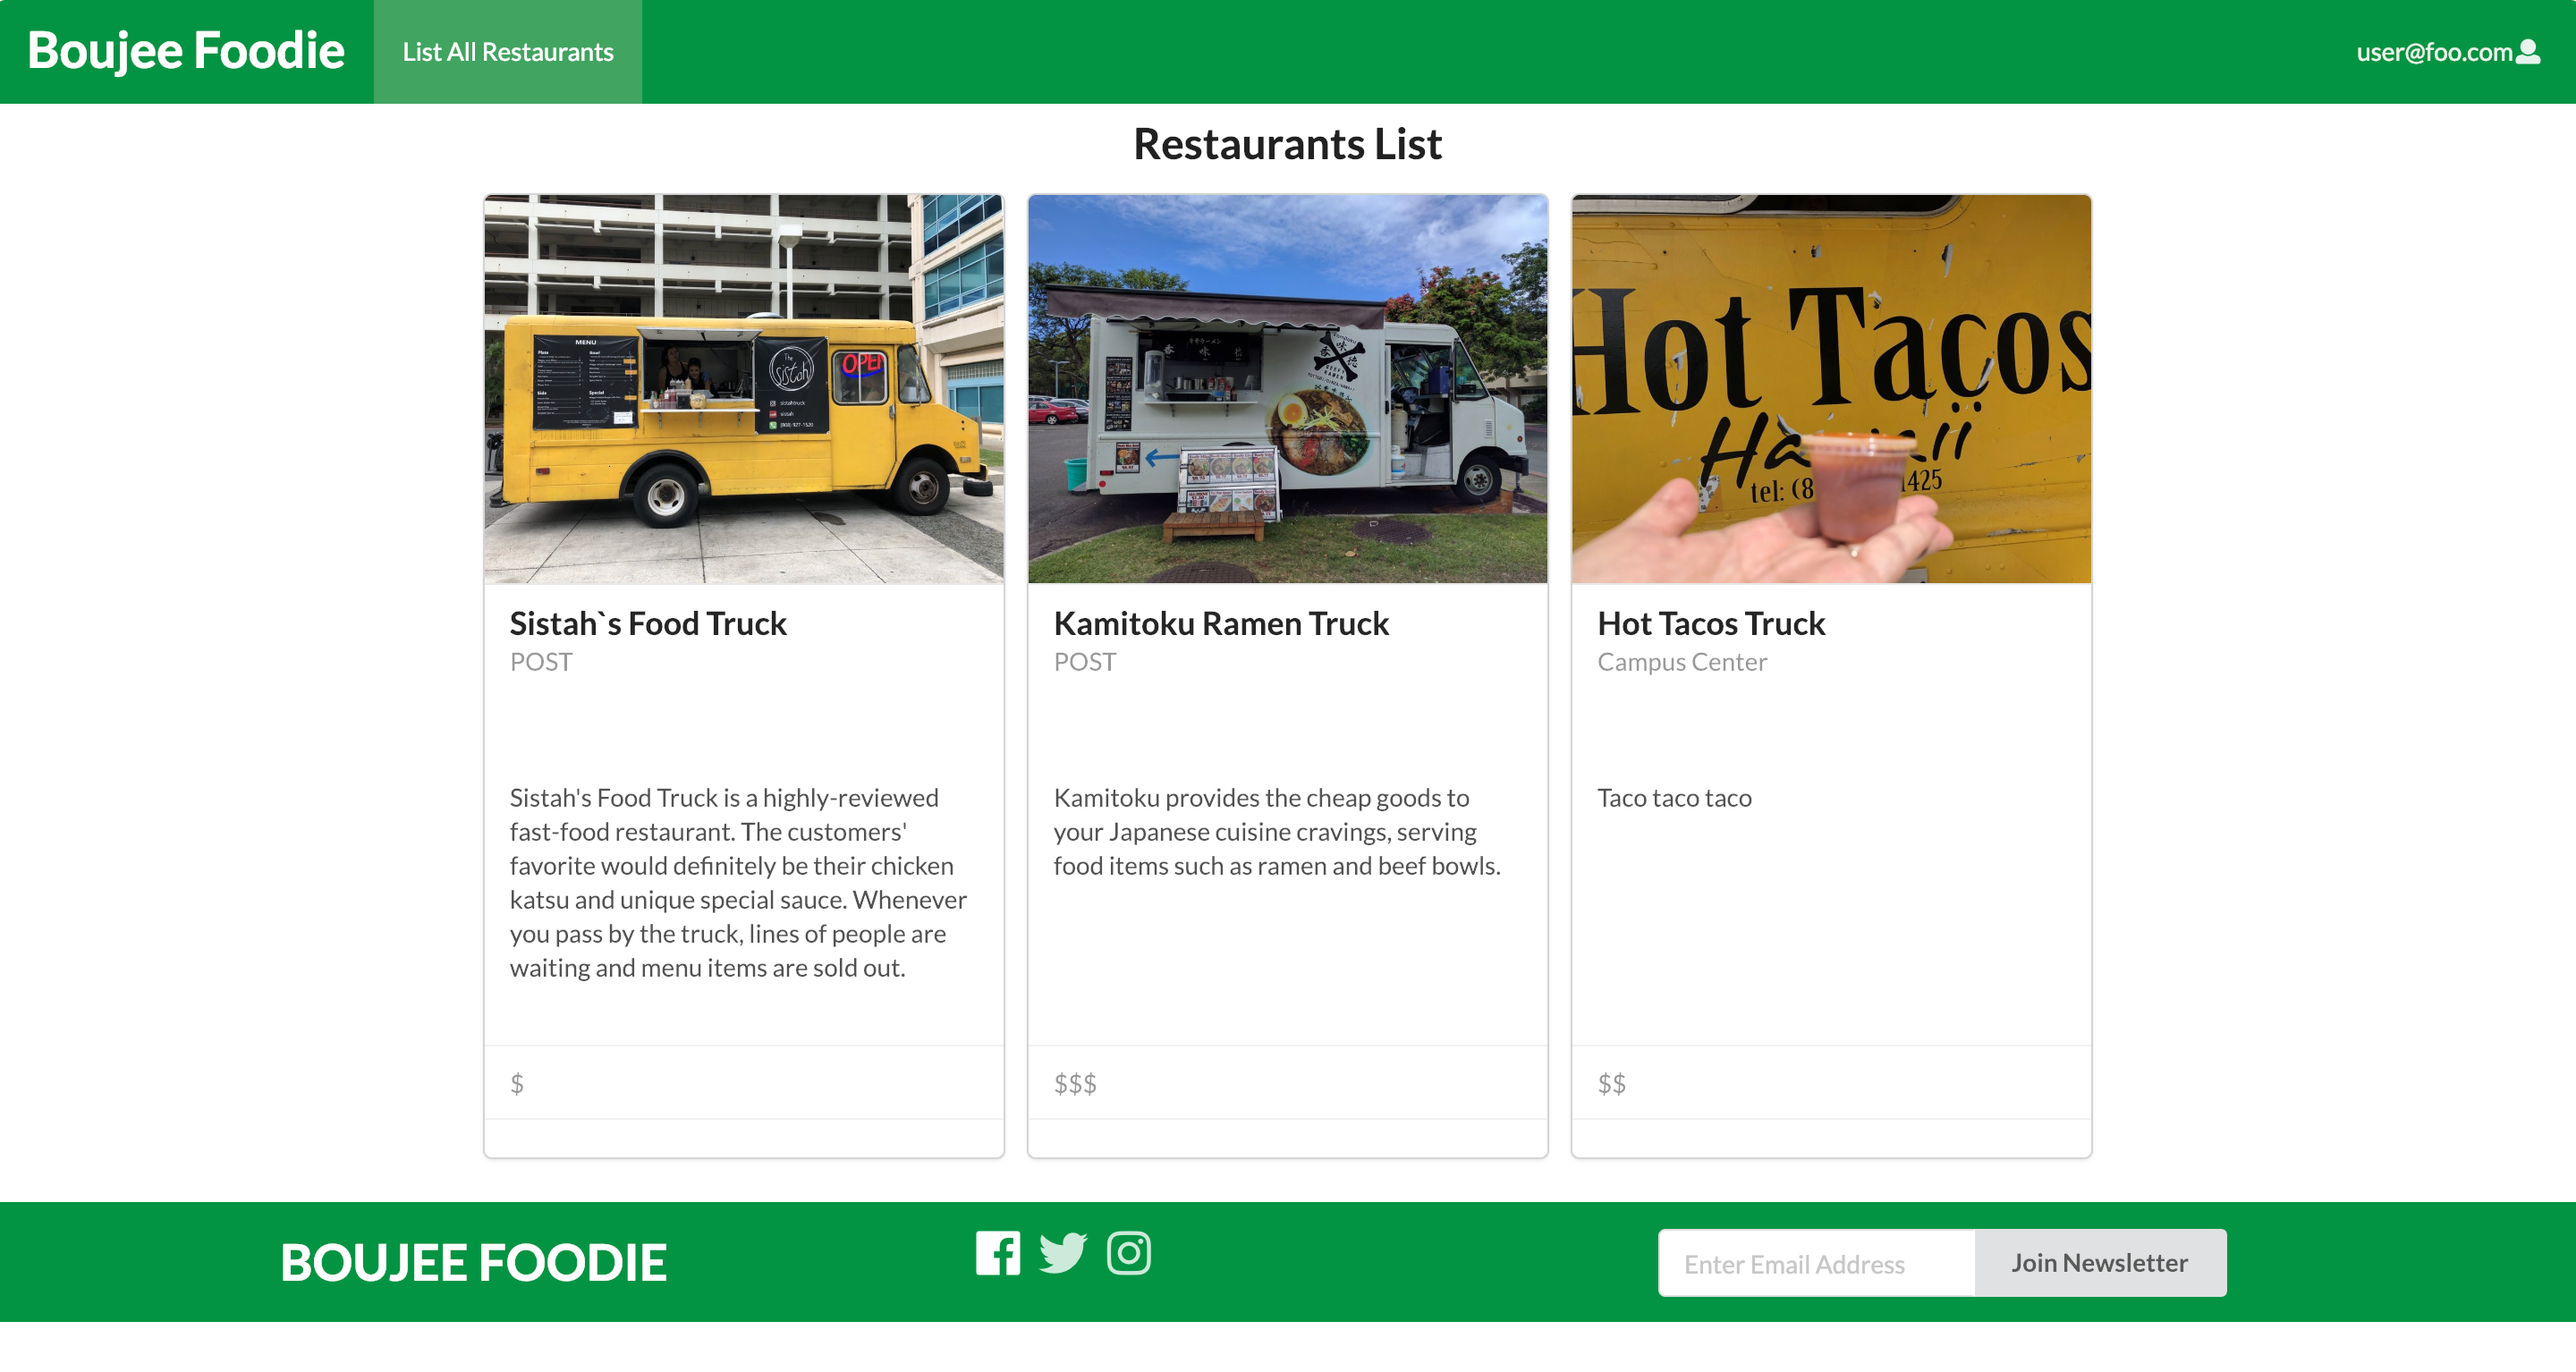
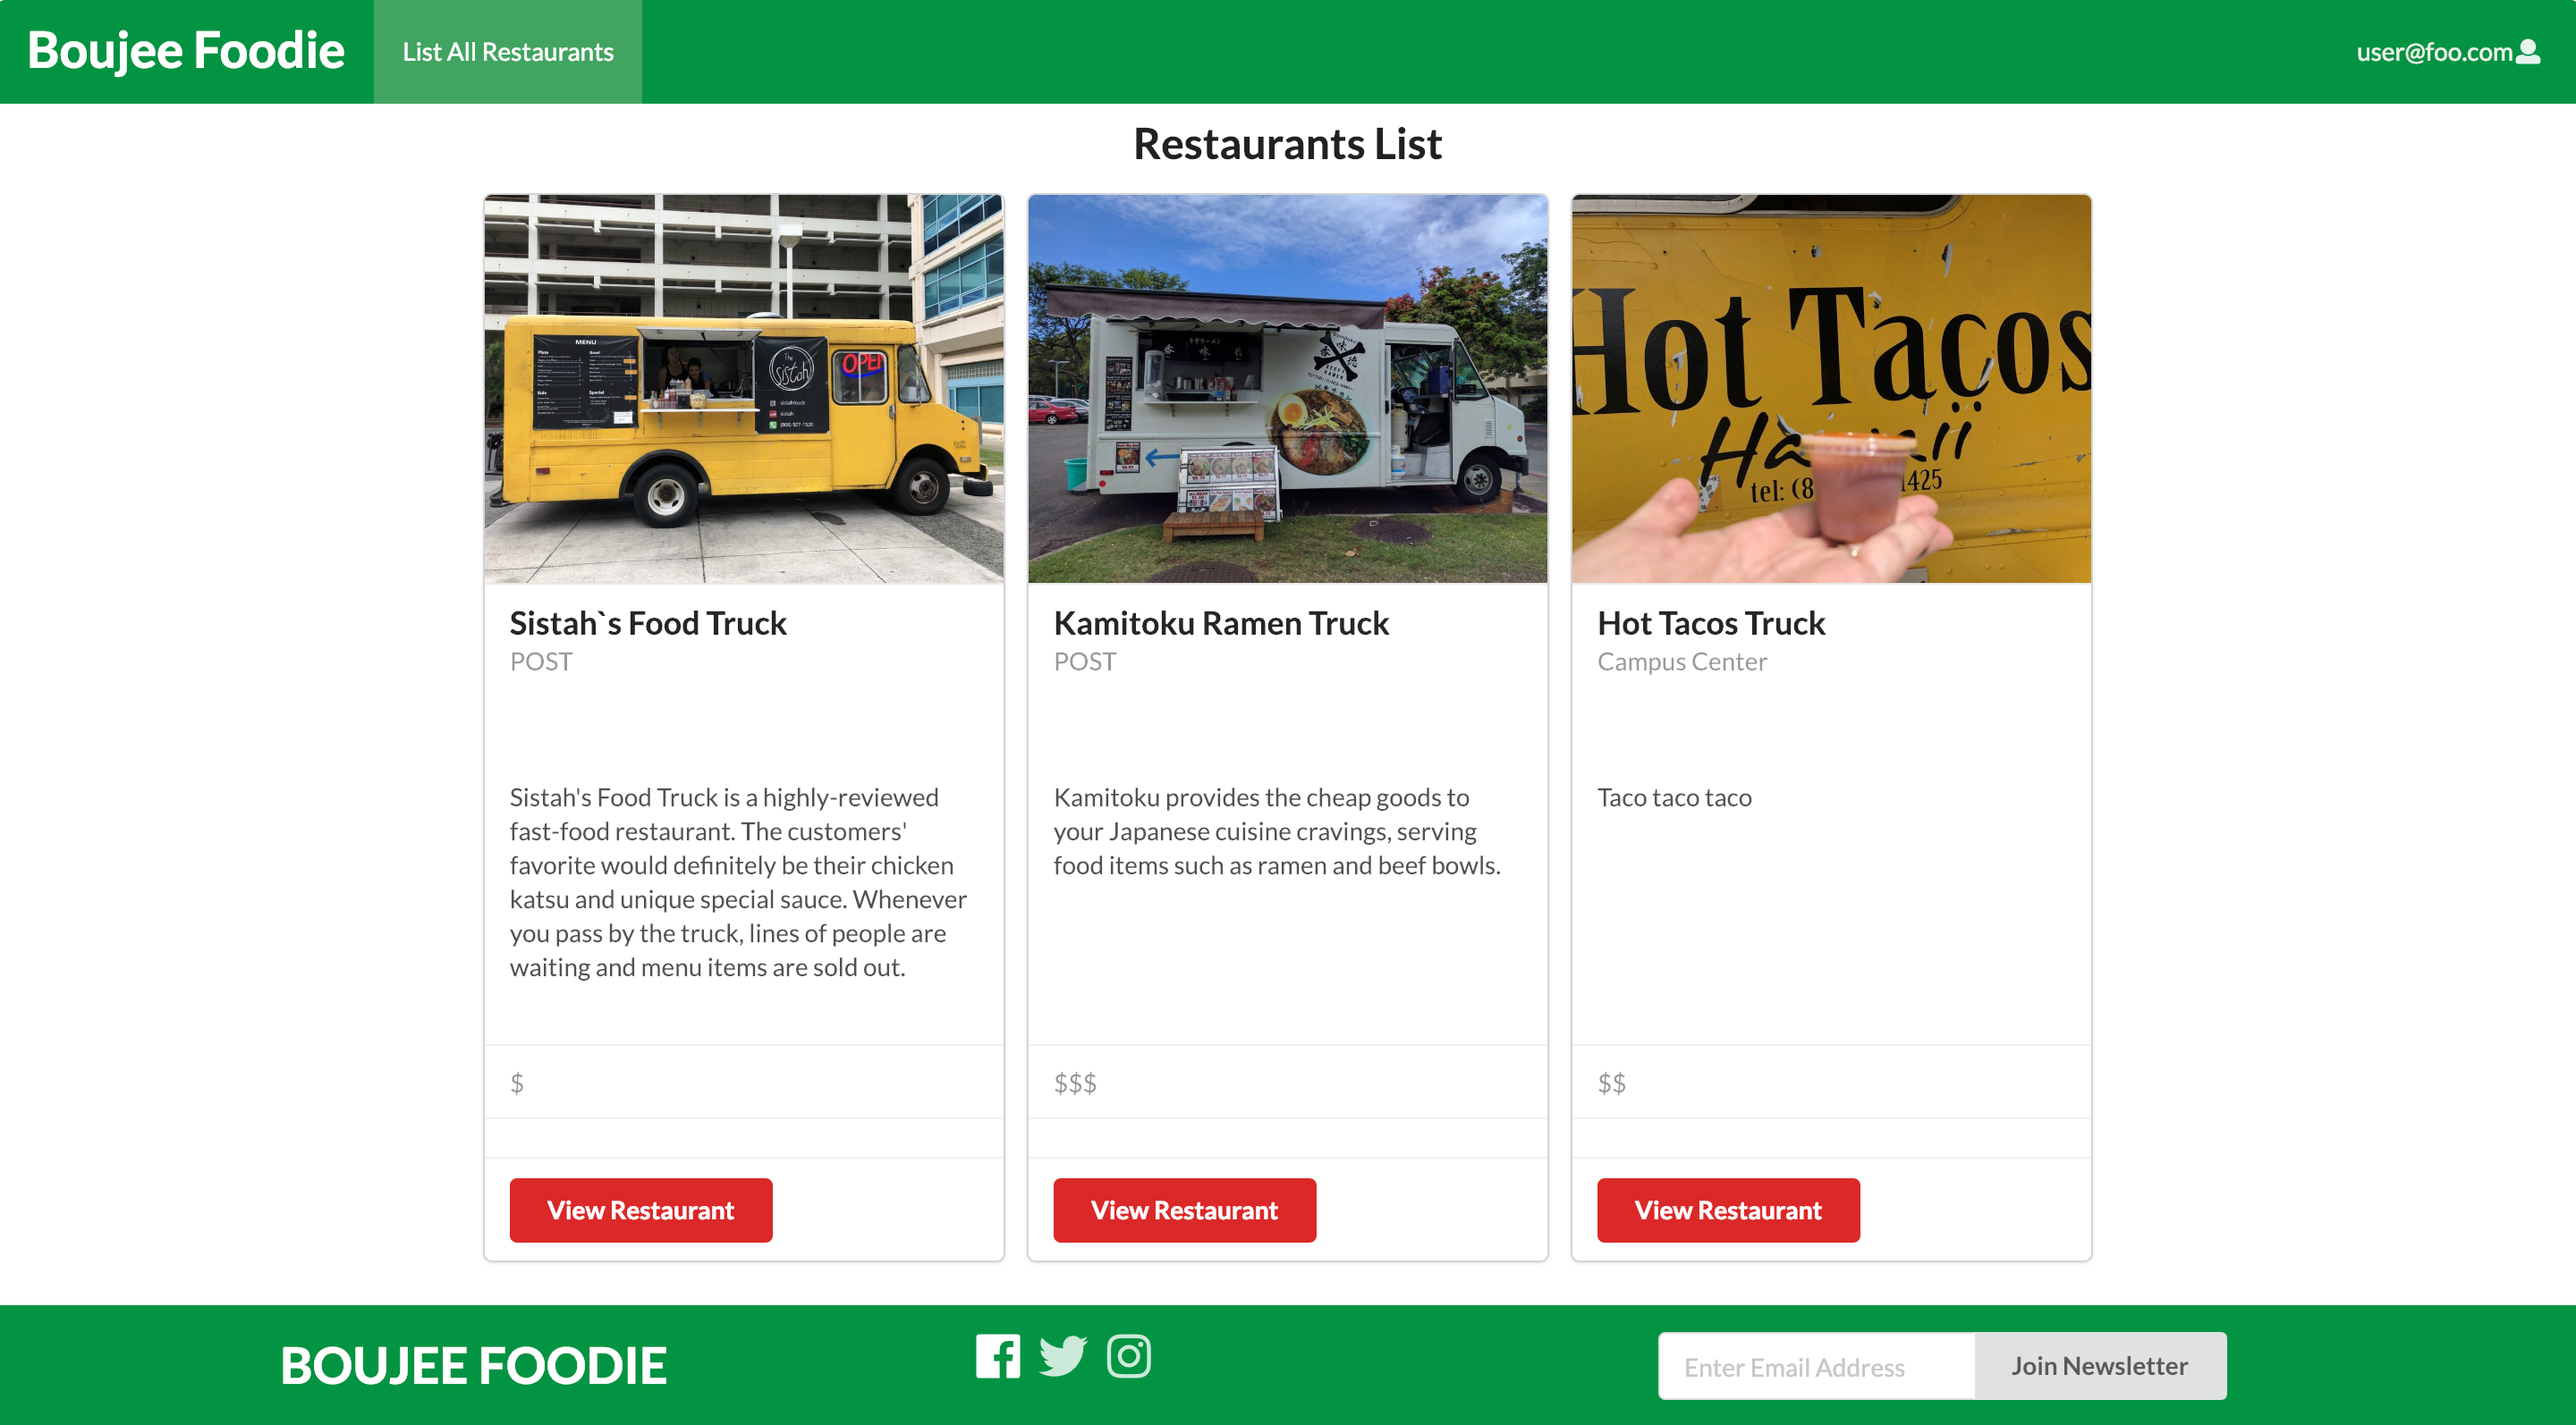
added new images & completed IO page for M2

diff --git a/index.md b/index.md
@@ -1,6 +1,8 @@
 # Table of Contents
 * [Boujee Foodie Overview](#boujee-foodie-overview)
 * [User Guide](#user-guide)
+  * [Regular Users](#regular-users)
+  * [Admin Users](#admin-users)
 * [Developer Guide](#developer-guide)
   * [Installation](#installation)
 * [Application Design](#application-design)
@@ -8,6 +10,7 @@
 * [Development History](#development-history)
   * [Milestone 1: Mockup development](#milestone-1-mockup-development)
   * [Milestone 2: Mockup development](#milestone-2-mockup-development)
+  * [Milestone 3: Mockup development](#milestone-3-mockup-development)
 * [Contact Us](#contact-us)
 
 # Boujee Foodie Overview
@@ -26,6 +29,7 @@ GitHub Repo Page: [https://github.com/boujeefoodie](https://github.com/boujeefoo
 GitHub Project Management Page: [https://github.com/boujeefoodie/boujeefoodie/projects](https://github.com/boujeefoodie/boujeefoodie/projects)
 
 # User Guide
+#### Regular Users
 Boujee Foodie is currently deployed via Galaxy with this link: [http://boujeefoodie.meteorapp.com/#/](http://boujeefoodie.meteorapp.com/#/)
 
 At the site, you must create a new account or sign into a currently-existing account.
@@ -34,28 +38,34 @@ At the site, you must create a new account or sign into a currently-existing acc
 Next, you will need to create an account. You can do this by clicking the login at the top right corner and then clicking "Sign Up". Please enter a valid email and password.
 ![](images/M2/SignUp2.png)
 
+Otherwise, if you already have an account, please login using the "Sign In" tab, entering your email and password.
+![](images/M2/SignIn2.png)
+
 Once you have logged in, you will be greeted with the Home Page, allowing more options to select in the NavBar. As a user, you will have the option of viewing the restaurants that are available around UH.
 ![](images/M2/HomePage2.png)
 
 In order to see the restaurants available, you must click "List All Restaurants". On this page, you will be able to see the name, address, images, description and price range of each restaurants.
-![](images/M2/ListRestaurant2.png	)
+![](images/M2/ListRestaurant2.png)
 
-If you are an Admin User, your navigation bar will have more functions than a regular user
+If you wish to see more information regarding a certain restaurant, clicking the "View Restaurant" button will redirect you to the Restaurant Page, displaying the description of the selected restaurant.
+![](images/M2/RestaurantPage2.png)
 
-- Landing Page Admin Image
+#### Admin Users
+If you are an Admin User, after logging in, your navigation bar will have more functions than a regular user, having the option to "Add Restaurant" as well. 
+![](images/M2/AdminHomePage2.png)
 
-Admins have an option to add restaurant to website. Admins will have to input the restaurants name, description, an link to the restaurants image, a description about the restaurant and the price range in the indicated by amount '$' out of three being one being the cheapest and 3 being expensive.
+In the Add Restaurant page, admins will have to input the restaurants name, description, an link to the restaurants image, a description about the restaurant and the price range in the indicated by amount '$' out of three being one being the cheapest and 3 being expensive.
+![](images/M2/AddRestaurantAdmin2.png)
 
-![](images/M1/AddRestaurantAdmin.png)
+The admin's List Restaurant page will also vary, with added buttons to edit and delete restaurants. Deleting a restaurant will prompt the user to confirm the deletion before removing it from the Restaurants collection.
+![](images/M2/ListRestaurantAdmin2.png)
 
-Admins also have the power to edit the restaurant page in case restaurants change their hours.
-
-![](images/M1/ListRestaurantAdmin.png)
+Admins also have the power to edit the restaurant page. The "Edit" button redirects you to change the current information listed for the restaurant.
+![](images/M2/EditRestaurantAdmin2.png)
 
 
 # Developer Guide
 ## Installation
-
 First, [install Meteor](https://www.meteor.com/install).
 
 Second, [download a copy of Boujee Foodie](https://github.com/boujeefoodie/boujeefoodie/archive/master.zip), or clone it using git.
@@ -145,20 +155,32 @@ List Restaurants:
 
 ## [Milestone 2](https://github.com/boujeefoodie/boujeefoodie/projects/2): Mockup development
 
-Our goal for Milestone 2 was to add functionality to the Mockups that were created in Milestone 1. Thus, we added a variety of issues. For starters, we added an AddRestaurant page and EditRestaurant page. In addition, we also implemented a Restaurant Description page that would display a specific restaurant's information as well as its reviews. Consequently, we added functionality to the review section on that page. We also updated our Footer, NavBar, and Landing Page to match the website theme and functionality. Then, we finally made an Admin user that is able to add/edit/delete restaurants.
+Our goal for Milestone 2 was to add functionality to the Mockups that were created in Milestone 1. For starters, we added an AddRestaurant page and EditRestaurant page specific to Admin users. In addition, we also implemented a Restaurant Page that would display a specific restaurant's information as well as its reviews. We also updated our Footer, NavBar, and Landing Page to match the website theme and functionality. Then, we finally made an Admin user that is able to add/edit/delete restaurants.
 
-Updated Home/Landing Page:
+Updated Landing Page:
 ![](images/M2/LandingPage2.jpg)
 
-AddRestaurant:
-![](images/M2/AddRestaurant2.png)
+Updated User Home Page:
+![](images/M2/HomePage2.png)
+
+Updated Admin Home Page:
+![](images/M2/AdminHomePage2.png)
+
+ListRestaurantAdmin Page:
+![](images/M2/ListRestaurantAdmin2.png)
+
+AddRestaurant Page:
+![](images/M2/AddRestaurantAdmin2.png)
 
 EditRestaurant:
-![](images/M2/EditRestaurant2.png)
+![](images/M2/EditRestaurantAdmin2.png)
 
 RestaurantDescription:
-![](images/M2/RestaurantDescription.png)
+![](images/M2/RestaurantPage2.png)
 
+## [Milestone 3](https://github.com/boujeefoodie/boujeefoodie/projects/3): Mockup development
+
+We plan to clean up the code and aesthetics of the web application, implement a search bar, and implement Google Maps.
 
 # Contact Us
 Jetro Butac: jetro@hawaii.edu
